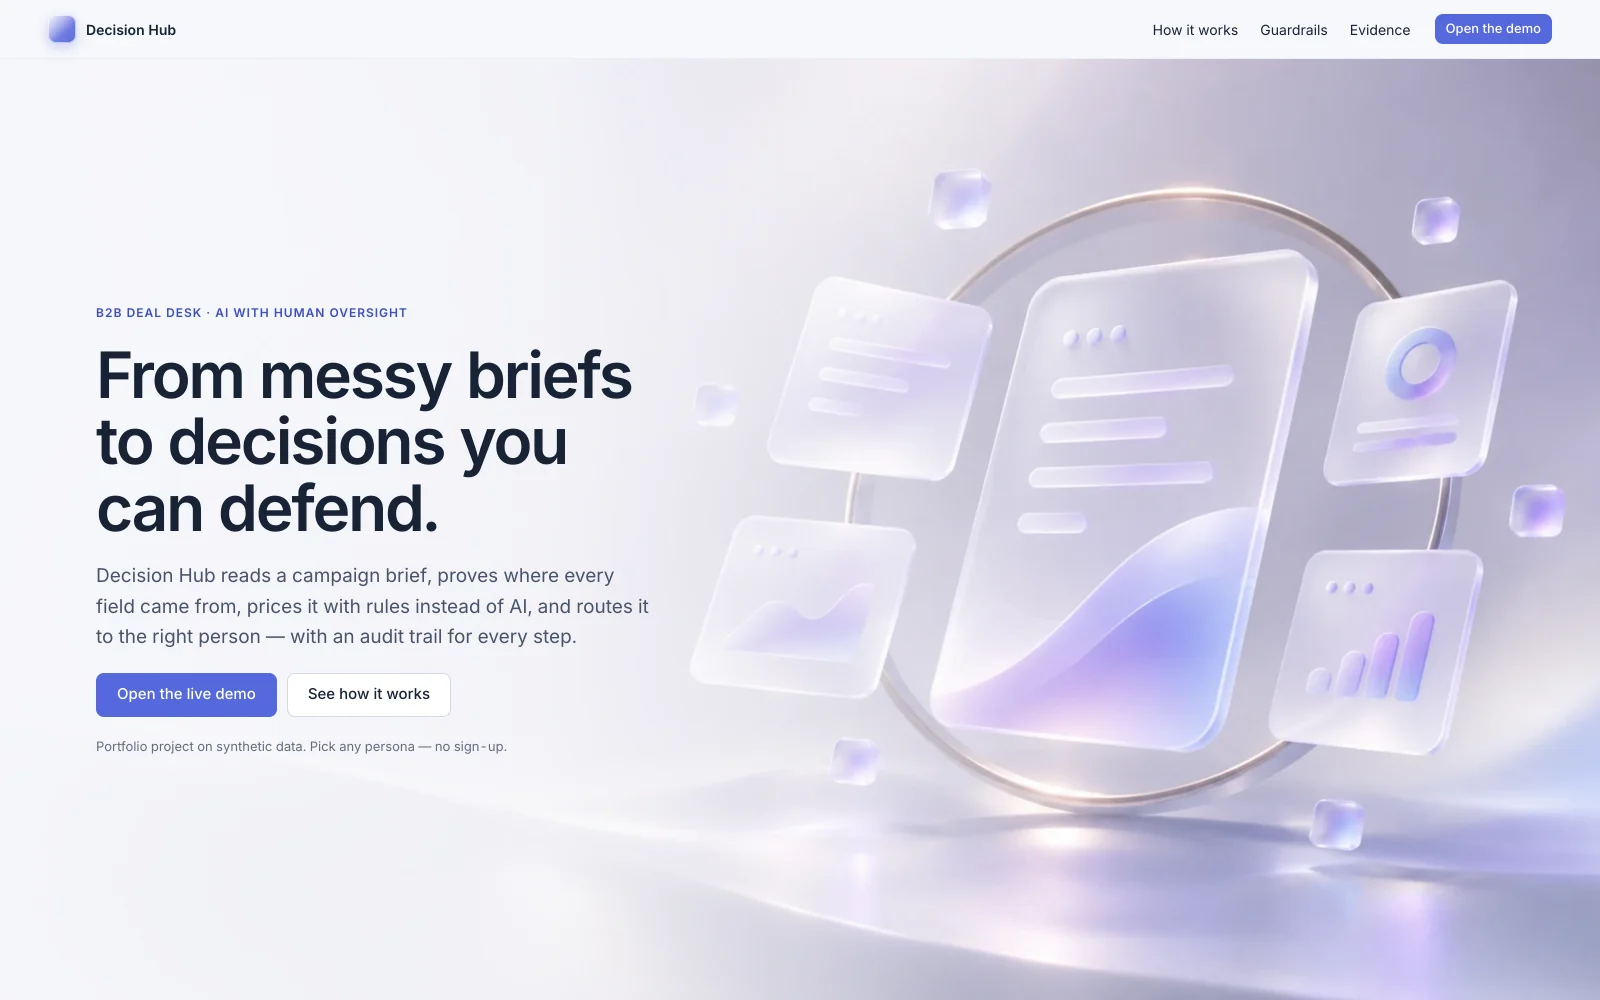
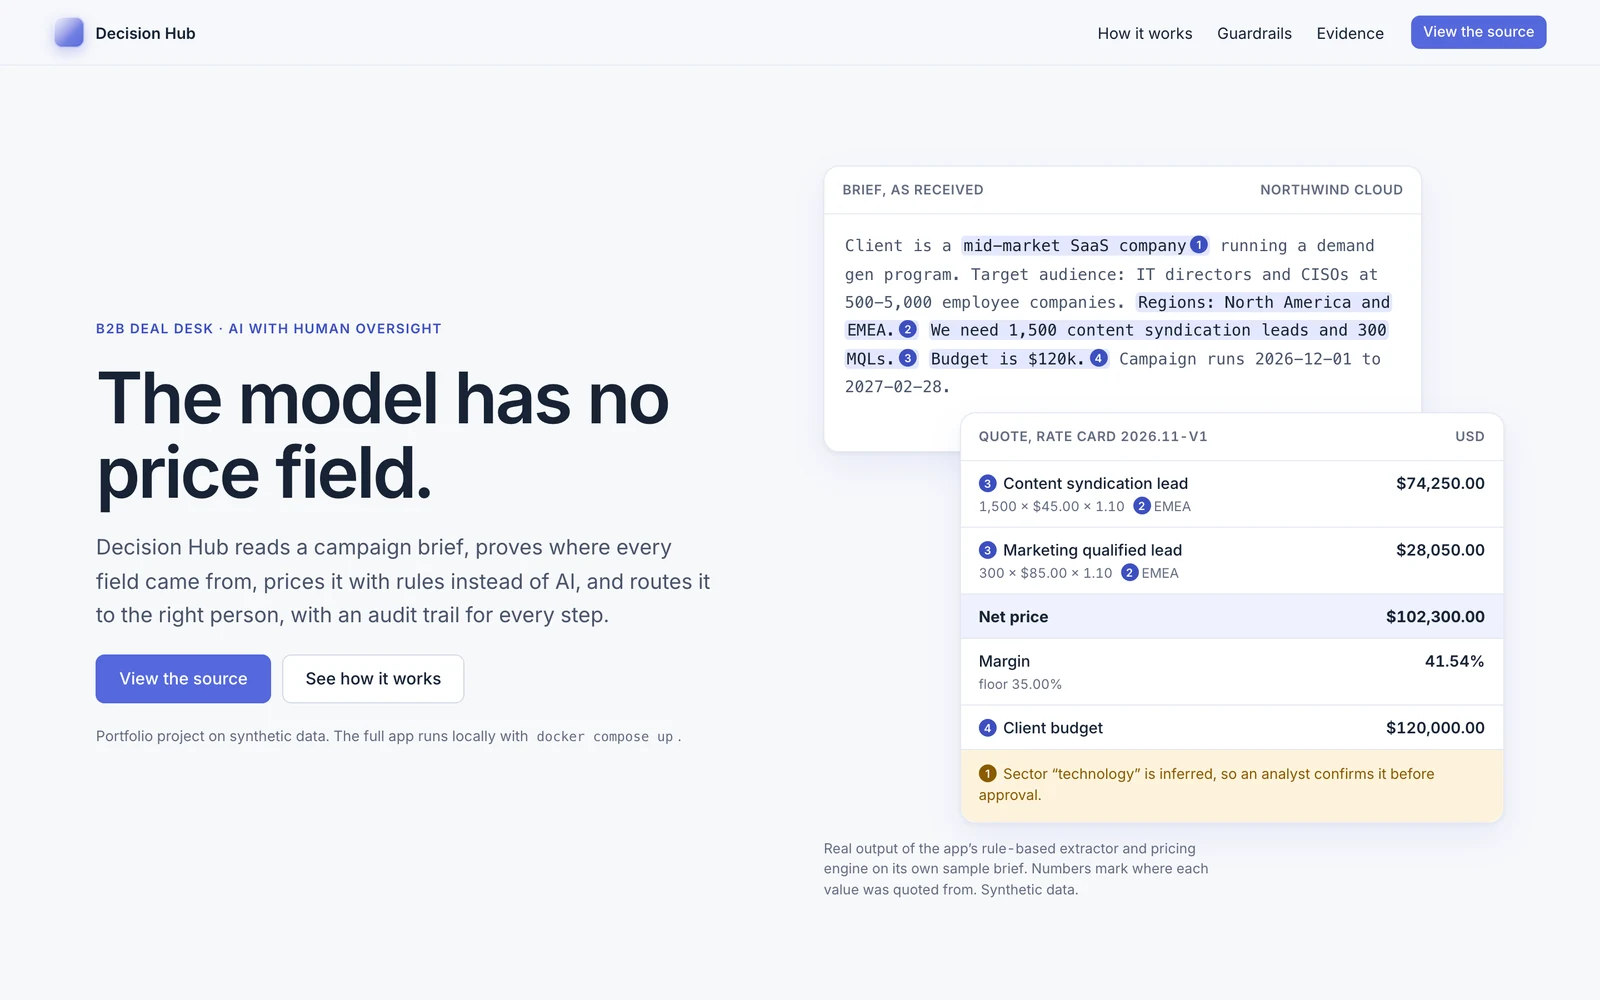
Show the new Decision Hub hero on its card and case study

diff --git a/index.html b/index.html
@@ -153,7 +153,7 @@
           </article>
           <article class="project-card reveal" data-project="decision-hub">
             <button class="project-open" type="button" data-open="decision-hub" data-cursor="View" aria-label="View Decision Hub, AI decision workflow prototype">
-              <span class="project-art"><img class="project-image" src="assets/projects/decision-hub.webp" width="1600" height="1000" alt="Decision Hub product page: “From messy briefs to decisions you can defend.” beside frosted glass panels in a ring" loading="lazy" decoding="async"><span class="project-handoff" aria-hidden="true"><img src="assets/pixel-guide.svg" width="40" height="56" alt=""><span>Rule-priced quotes</span></span><span class="project-open-label" aria-hidden="true">View project ↗</span></span>
+              <span class="project-art"><img class="project-image" src="assets/projects/decision-hub.webp" width="1600" height="1000" alt="Decision Hub product page: the headline “The model has no price field.” beside a sample brief with four quoted phrases and the rule-priced quote built from them, $102,300 at a 41.54% margin" loading="lazy" decoding="async"><span class="project-handoff" aria-hidden="true"><img src="assets/pixel-guide.svg" width="40" height="56" alt=""><span>Rule-priced quotes</span></span><span class="project-open-label" aria-hidden="true">View project ↗</span></span>
               <span class="project-caption"><span><strong>Decision Hub</strong><span class="project-discipline">AI decision workflow</span></span><span class="project-number">Prototype / 05</span></span>
             </button>
             <a class="case-entry" href="case-decision-hub.html">Read the Decision Hub case study <span aria-hidden="true">↗</span></a>

diff --git a/case-decision-hub.html b/case-decision-hub.html
@@ -29,8 +29,8 @@
       <dl class="case-facts"><div><dt>Role</dt><dd>Solo — requirements, UX, backend, AI integration, testing</dd></div><div><dt>Stack</dt><dd>FastAPI, PostgreSQL, React + TypeScript, Claude API (optional)</dd></div><div><dt>Timeline</dt><dd>November 2026</dd></div><div><dt>Status</dt><dd>Prototype · 101 backend tests + 5 browser journeys</dd></div></dl>
     </section>
     <figure class="case-image page-width">
-      <div class="case-image-wrap"><img src="assets/projects/decision-hub.webp" width="1600" height="1000" alt="Decision Hub landing page: the headline “From messy briefs to decisions you can defend.” beside frosted glass panels in a ring" decoding="async" fetchpriority="high"></div>
-      <figcaption><span>Product page — pearl-white glass, with room on the left for real HTML text</span><span data-case-position>05 / 06</span></figcaption>
+      <div class="case-image-wrap"><img src="assets/projects/decision-hub.webp" width="1600" height="1000" alt="Decision Hub product page: the headline “The model has no price field.” beside a sample brief with four quoted phrases and the rule-priced quote built from them, $102,300 at a 41.54% margin" decoding="async" fetchpriority="high"></div>
+      <figcaption><span>Product page: the hero is the app’s own output for its sample brief, with each quoted phrase numbered and carried into the quote</span><span data-case-position>05 / 06</span></figcaption>
     </figure>
     <section class="case-story page-width" aria-labelledby="problemTitle"><span class="case-section-label">THE BRIEF</span><div>
       <h2 id="problemTitle">A quote is only as good as the brief behind it.</h2>
